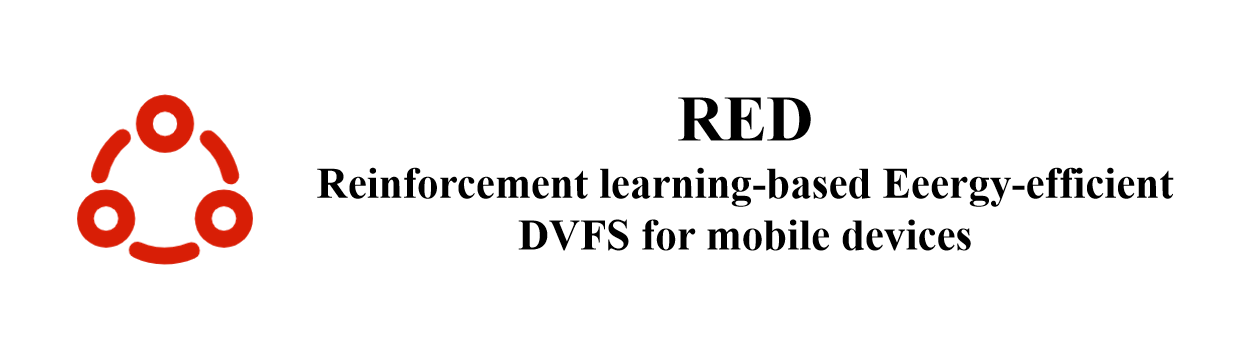
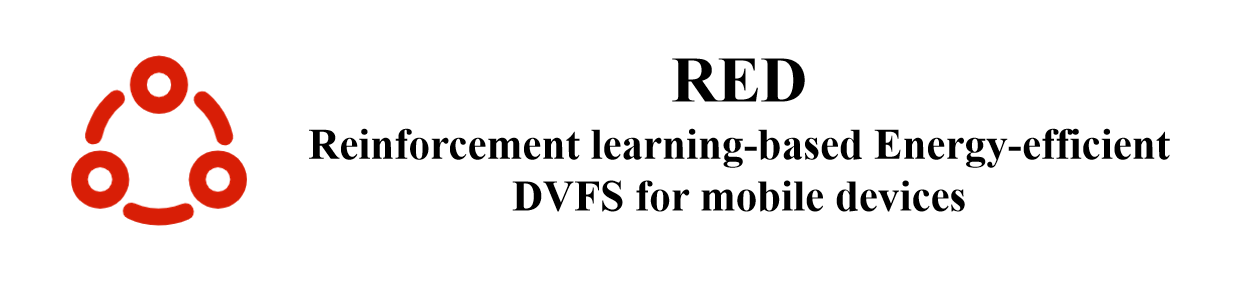
update

diff --git a/README.md b/README.md
@@ -1,4 +1,4 @@
 ![RED](README/title.png "title")
 
-# RED: Reinforcement learning-based Eeergy-efficient DVFS for mobile devices
+# RED: Reinforcement learning-based Energy-efficient DVFS for mobile devices
 
